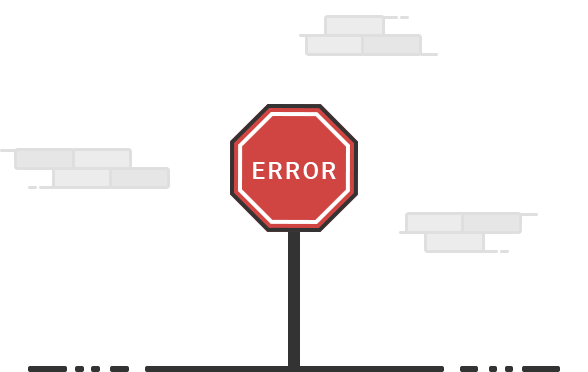
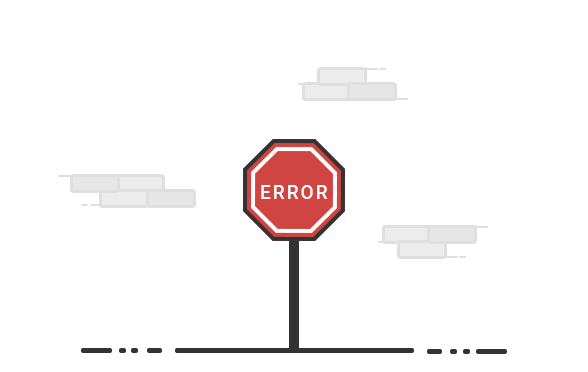
#83287 - Edit UI for error page

diff --git a/Fanex.Alpha.Before.Web/assets/styles/pages/error3.scss b/Fanex.Alpha.Before.Web/assets/styles/pages/error3.scss
@@ -35,7 +35,7 @@ body {
     text-align: center;
 
     .img {
-        width: 70%;
+        max-width: 100%;
 
         @media only screen and (max-device-width: 1024px) and (orientation : landscape) {
            width: 40%;
@@ -51,8 +51,7 @@ body {
     }
 
     @media only screen and (min-device-width: 768px) {
-        padding-top: 120px;
-        max-width: 800px;
+        padding-top: 80px;
     }
 
     @media only screen and (max-device-width: 767px) and (orientation: landscape) {

diff --git a/Fanex.Alpha.Before.Web/assets/styles/themes/default3.scss b/Fanex.Alpha.Before.Web/assets/styles/themes/default3.scss
@@ -233,10 +233,10 @@ input[type="checkbox"], input[type="radio"] {
 
     &:before {
         @extend %icon;
-        background-position: -29px -83px;
+        background-position: -28px -82px;
         content: '';
-        height: 16px;
-        width: 16px;
+        height: 18px;
+        width: 18px;
         position: absolute;
         left: 0;
         top: 2px;        
